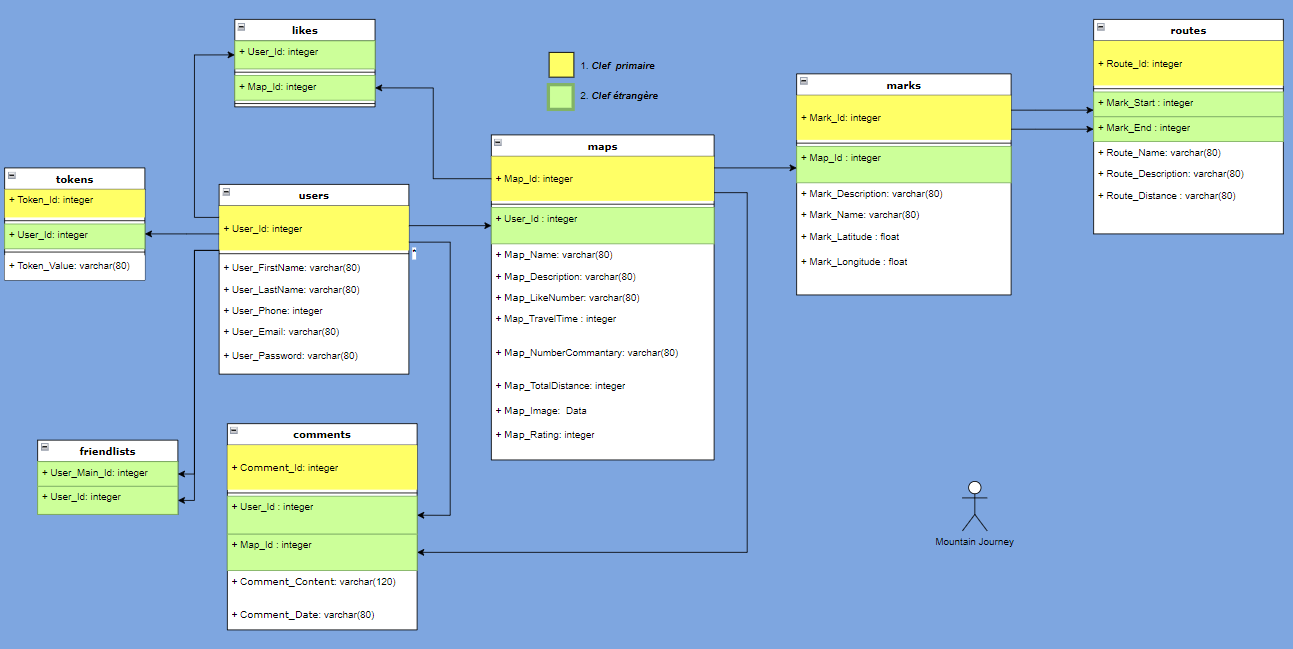
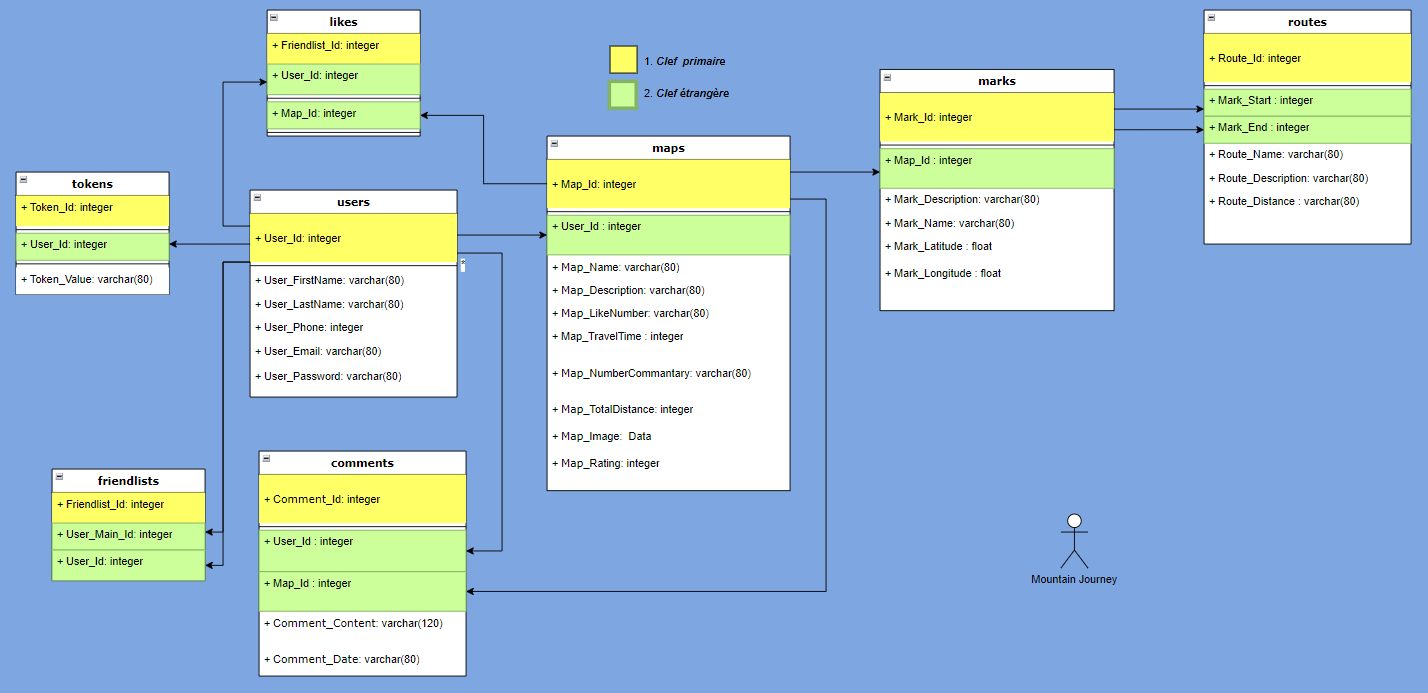
modificaation like n friendlist db n dmc

diff --git a/API_Test/Program.cs b/API_Test/Program.cs
@@ -61,10 +61,10 @@ class SimpleHttpServer
             responseString = await new Controllers.CommentsController().ProcessRequest(request);
         }
 
-        // else if (request.Url.AbsolutePath.StartsWith("/api/friendlists")) // tchek si l'url commence avec api/friendlists
-        // {
-        //     responseString = await new Controllers.FriendlistsController().ProcessRequest(request);
-        // }
+        else if (request.Url.AbsolutePath.StartsWith("/api/friendlists")) // tchek si l'url commence avec api/friendlists
+        {
+            responseString = await new Controllers.FriendlistsController().ProcessRequest(request);
+        }
 
         // else if (request.Url.AbsolutePath.StartsWith("/api/likes")) // tchek si l'url commence avec api/likes
         // {

diff --git a/API_Test/Models/Friendlists.cs b/API_Test/Models/Friendlists.cs
@@ -1,7 +1,8 @@
 namespace Models
 {
-    public class Friendlist
+    public class Friendlists
     {
+        public int Friendlist_Id { get; set; }
         public int User_Main_Id { get; set; }
         public int User_Id { get; set; }
     }

diff --git a/API_Test/Models/Likes.cs b/API_Test/Models/Likes.cs
@@ -2,6 +2,7 @@ namespace Models
 {
     public class Likes
     {
+        public int Like_Id {get; set; }
         public int User_Id { get; set; }
         public int Map_Id { get; set; }
     }

diff --git a/Suivis.md b/Suivis.md
@@ -9,6 +9,7 @@ controller api
 ajout d'une fonctionnalite de test de connection a la db dans l'api
 mise en place token api
 mise en place user controller
+optimisation token api
 
 
 
